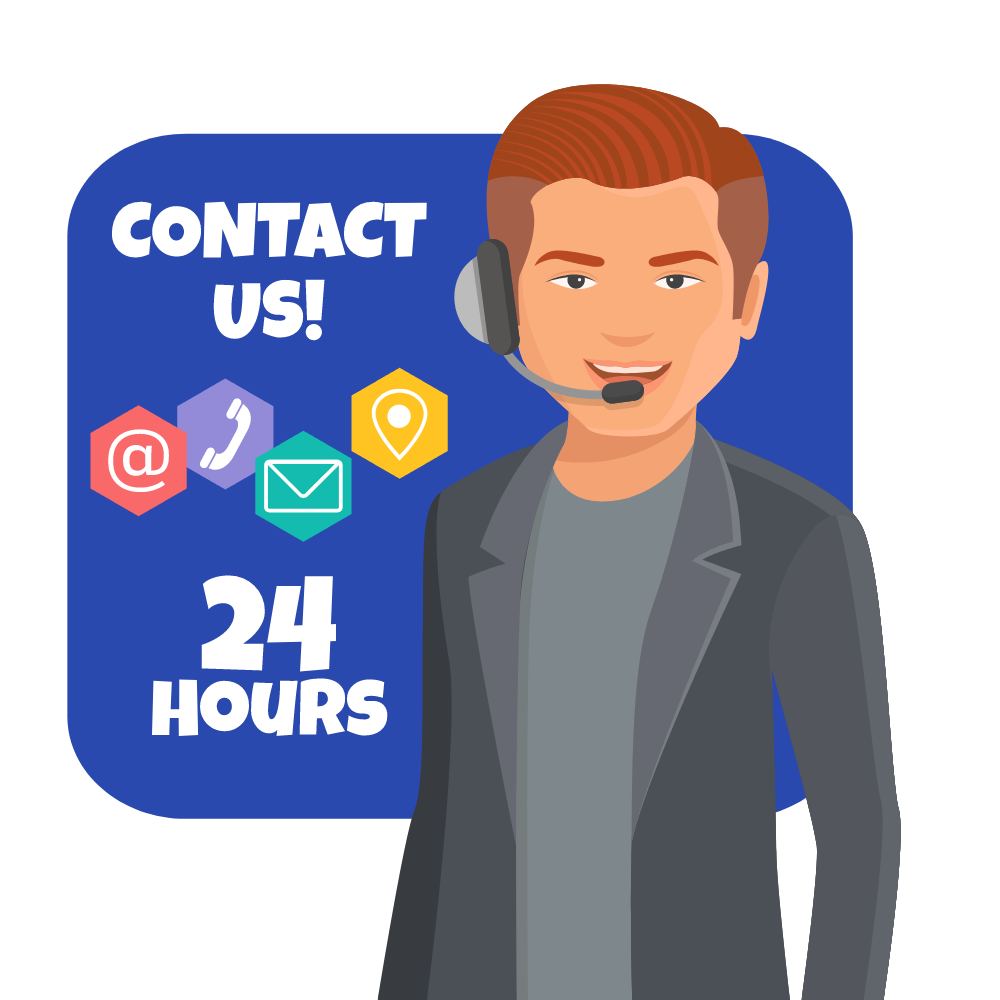
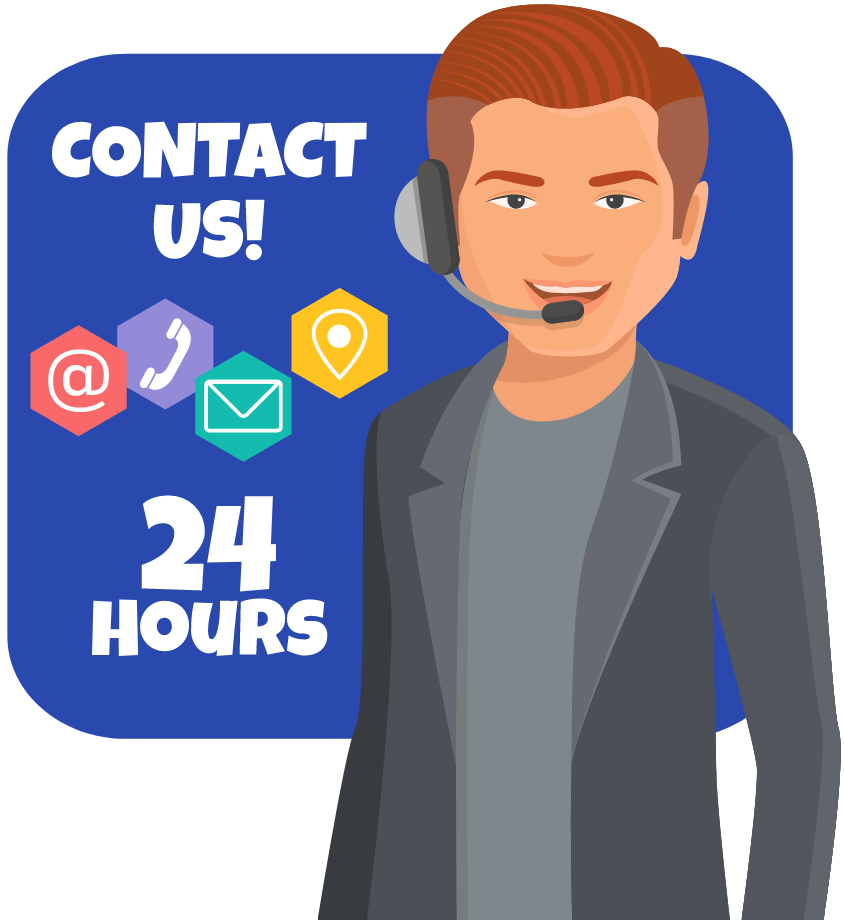
version mobile ✔

diff --git a/contact.html b/contact.html
@@ -1,47 +1,42 @@
 <!DOCTYPE html>
 <html>
-  <head>
-    <meta charset="UTF-8" />
-    <meta http-equiv="X-UA-Compatible" content="IE=edge" />
-    <meta name="viewport" content="width=device-width, initial-scale=1.0" />
-    <link href="https://fonts.googleapis.com/css2?family=Poppins&display=swap" rel="stylesheet" />
-    <link href="https://fonts.googleapis.com/css2?family=Karla:wght@400;700&display=swap" rel="stylesheet" />
-    <link rel="stylesheet" href="asset/style.css" />
-    <title>Contact and landing page</title>
-  </head>
 
-  <body>
-    <div class="container">
-      <header>
-        <nav>
-          <h3 class="logo">desi.gn</h3>
-          <ul class="menu">
-            <li>Home</li>
-            <li>Features</li>
-            <li>Pricing&Plans</li>
-          </ul>
-          <div class="btns">
-            <a href="#" class="Sign"> Sign In</a>
-            <a href="#" class="try"> Try for free</a>
-          </div>
-        </nav>
-      </header>
-      <section>
-        <div class="description">
-          <div class="left-section" style="margin-left: 0">
-            <h1 class="title">Contact Us <br /></h1>
-            <p class="para">
-              Get unlimited designs in areas such as web design, app design, brochures and much more for a flat monthly
-              fee. No additional charges.
-            </p>
-          </div>
-          <div class="left-section contact-img">
-            <img class="" src="asset/contact.png" />
-          </div>
+<head>
+  <meta charset="UTF-8" />
+  <meta http-equiv="X-UA-Compatible" content="IE=edge" />
+  <meta name="viewport" content="width=device-width, initial-scale=1.0" />
+  <link href="https://fonts.googleapis.com/css2?family=Poppins&display=swap" rel="stylesheet" />
+  <link href="https://fonts.googleapis.com/css2?family=Karla:wght@400;700&display=swap" rel="stylesheet" />
+  <link rel="stylesheet" href="asset/style.css" />
+  <title>Contact Us</title>
+</head>
+
+<body>
+  <div class="container">
+    <header>
+      <nav>
+        <h3 class="logo">desi.gn</h3>
+        <ul class="menu">
+          <li>Home</li>
+          <li>Features</li>
+          <li>Pricing&Plans</li>
+        </ul>
+        <div class="btns">
+          <a href="#" class="Sign"> Sign In</a>
+          <a href="#" class="try"> Try for free</a>
         </div>
-      </section>
-      <section>
-        <div class="form">
+      </nav>
+    </header>
+    <section>
+      <div class="" style="margin-left: 0">
+        <h1 class="title">Contact Us <br /></h1>
+        <p class="para">
+          Get unlimited designs in areas such as web design, app design, brochures and much more for a flat monthly
+          fee. No additional charges.
+        </p>
+      </div>
+      <div class="content">
+        <div class="left-content">
           <div class="center">
             <form action="" method="post" class="main">
               <div class="input">
@@ -58,12 +53,21 @@
               </div>
               <div class="input">
                 <span class="label">Content :</span><br />
-                <textarea class="contact1" name="" id="" cols="30" rows="10"></textarea>
+                <textarea class="contact-textarea" name="" id="" cols="30" rows="10"></textarea>
+              </div>
+              <div style="display: flex; text-align: center; justify-content: center;">
+                <input type="submit" value="Submit" class="submit">
               </div>
             </form>
           </div>
         </div>
-      </section>
-    </div>
-  </body>
+        <div class="right-content contact-img">
+          <img class="" src="asset/contact.png" />
+        </div>
+      </div>
+    </section>
+    <footer>Made with ❤ by CHAOS 🌪</footer>
+  </div>
+</body>
+
 </html>

diff --git a/asset/style.css b/asset/style.css
@@ -293,6 +293,24 @@ footer {
     flex-direction: column;
     align-items: flex-end;
 } */
+.content {
+    display: grid;
+    grid-template-columns: 1fr 1fr;
+    column-gap: 1rem;
+    row-gap: 1rem;
+
+}
+
+.left-content {
+    box-sizing: border-box;
+    margin-top: 2.4rem;
+}
+
+.right-content {
+    box-sizing: border-box;
+}
+
+
 .contact {
     height: 2.5rem;
     border-radius: 5px;
@@ -306,7 +324,7 @@ footer {
     color: #4B4B4B;
 }
 
-.contact1 {
+.contact-textarea {
     border-radius: 5px;
     border: 1px solid #8a8a8aad;
     width: inherit;
@@ -331,27 +349,38 @@ footer {
     width: 100%;
 }
 
-.center {
-    width: 70%;
-}
-
 .main {
     /* background-color: white; */
-    box-shadow: 0px 0px 25px 0px rgba(0, 0, 0, 0.25);
+    box-shadow: 0px 0px 10px 0px rgb(0 0 0 / 20%);
     padding: 4rem;
     border-radius: 3rem;
 }
 
 .contact-img img {
+    width: 100%;
     -webkit-filter: drop-shadow(7px 6px 0px #2222225d);
     filter: drop-shadow(7px 6px 0px #2222225d);
-    /* -webkit-box-shadow: 10px 6px 0px 0px rgba(0, 0, 0, 0.25); */
-    /* box-shadow: 10px 6px 0px 0px rgba(0, 0, 0, 0.25); */
+
+}
+
+.submit {
+    font-weight: bold;
+    text-decoration: none;
+    border: 1px solid #0B48A8;
+    padding: 10px 25px;
+    border-radius: 5px;
+    background-color: #0B48A8;
+    color: #FBF7EE;
+    box-shadow: 0px 4px 0px 0px #041c40;
 }
 
 .img-right {
     width: 100%;
     /* max-width: 500px; */
+}
+
+.ads {
+    height: 80%;
 }
 
 @media screen and (max-width: 1129px) {
@@ -384,7 +413,7 @@ footer {
 
     .card {
         box-sizing: border-box;
-        padding: 2%;
+        /* padding: 2%; */
         border: 1px solid rgb(228, 228, 228);
         border-radius: 4px;
         background-color: #FFFFFF;
@@ -401,6 +430,19 @@ footer {
     .cards {
         grid-template-columns: repeat(2, minmax(0, 1fr));
 
+    }
+
+    .ads {
+        height: auto;
+    }
+
+    .content {
+
+        grid-template-columns: 1fr;
+    }
+
+    .contact-img {
+        display: none;
     }
 
 }
@@ -432,6 +474,19 @@ footer {
         grid-template-columns: repeat(1, minmax(0, 1fr));
 
     }
+
+    .ads {
+        height: auto;
+    }
+
+    .content {
+
+        grid-template-columns: 1fr;
+    }
+
+    .contact-img {
+        display: none;
+    }
 }
 
 @media screen and (max-width: 600px) {
@@ -452,6 +507,17 @@ footer {
         margin-bottom: 1rem;
     }
 
+    .ads {
+        height: auto;
+    }
 
+    .content {
+
+        grid-template-columns: 1fr;
+    }
+
+    .contact-img {
+        display: none;
+    }
 
 }

diff --git a/index.html b/index.html
@@ -44,17 +44,17 @@
           </div>
           <div class="info">
             <div class="single-info">
-              <img class="img-info" src="asset/Checkmark.png" alt="" />
+              <img class="img-info" src="asset/Checkmark.png" alt="not found" />
               <span class="info-text">14 day money back guarantee</span>
             </div>
             <div class="single-info">
-              <img class="img-info" src="asset/Checkmark.png" alt="" />
+              <img class="img-info" src="asset/Checkmark.png" alt="not found" />
               <span class="info-text">No credit card required</span>
             </div>
           </div>
         </div>
         <div class="left-section">
-          <img class="img-right" src="asset/BG Hero.png" />
+          <img class="img-right" src="asset/BG Hero.png" alt="not found" />
         </div>
       </div>
     </section>
@@ -128,7 +128,7 @@
           </div>
           <h2><a href="contact.html"> Contact Us</a></h2>
         </div>
-        <div class="card" style="background-color: #f0f8ff00">
+        <div class="card ads" style="background-color: #f0f8ff00">
           <p>Ads via Carbon</p>
           <img src="asset/ads.png" alt="" />
           <p>Get 20% off Adobe Plans using our Promo Code 'desi.gn20'</p>
